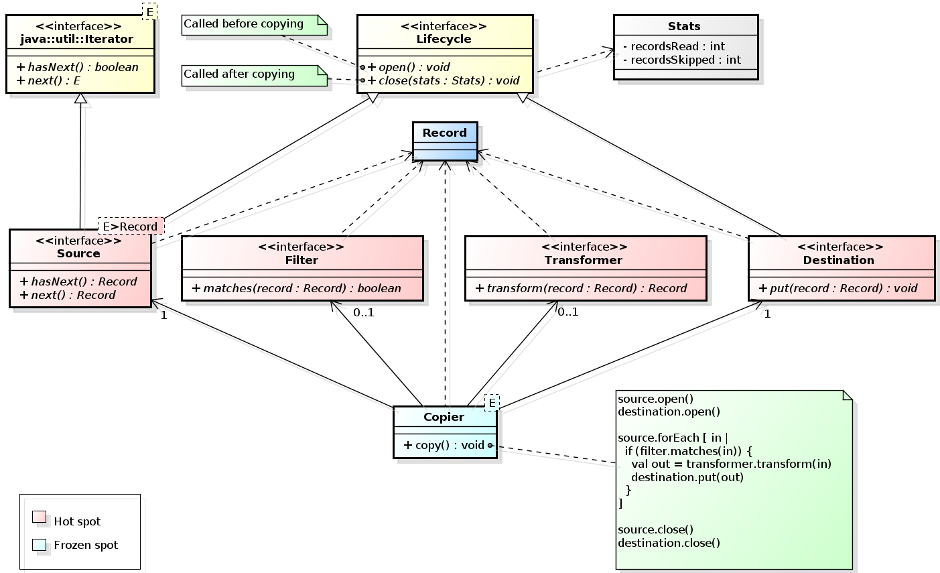
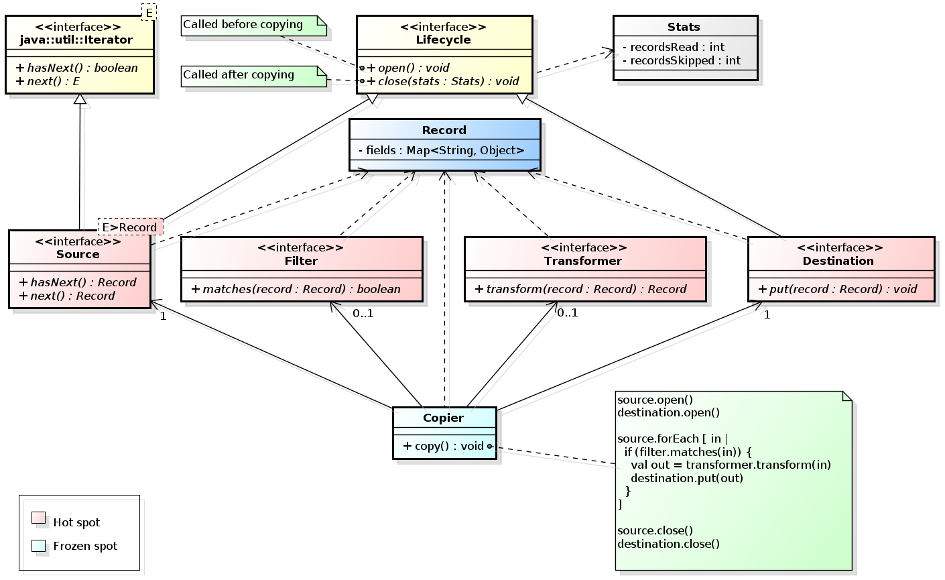
Updated class model and adjusted documentation to reflect changes

diff --git a/doc/01. intro.md b/doc/01. intro.md
@@ -193,12 +193,6 @@ The above theory is captured in the following class diagram:
 
 ![Framework Class Model](img/copier-framework.png)
 
-> NOTE: Even though we intend to copy only `Record`s, the copier framework as
-> such need not be concerned with the concrete type of its data. Thus,
-> it copies data items with a generic type (`E`) rather limiting itself to
-> `Record`. This exemplifies another framework tenet:
-> *[separation of concerns](http://en.wikipedia.org/wiki/Separation_of_concerns)* 
-
 We had previously stated that a framework captures what doesn't change in its
 domain. In our case, what doesn't change is the general algorithm followed to
 copy records from a source to a destination:
